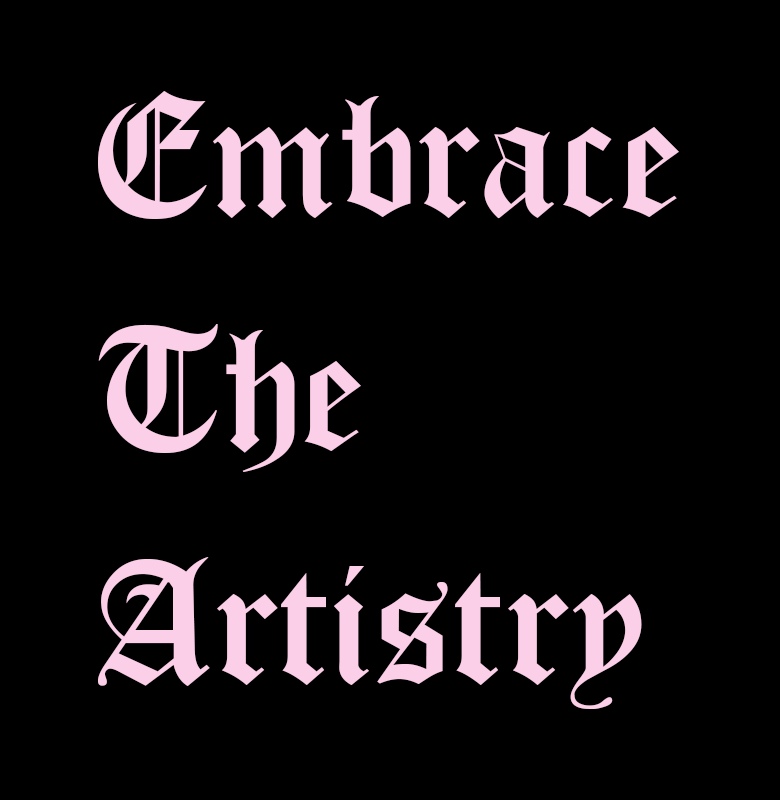
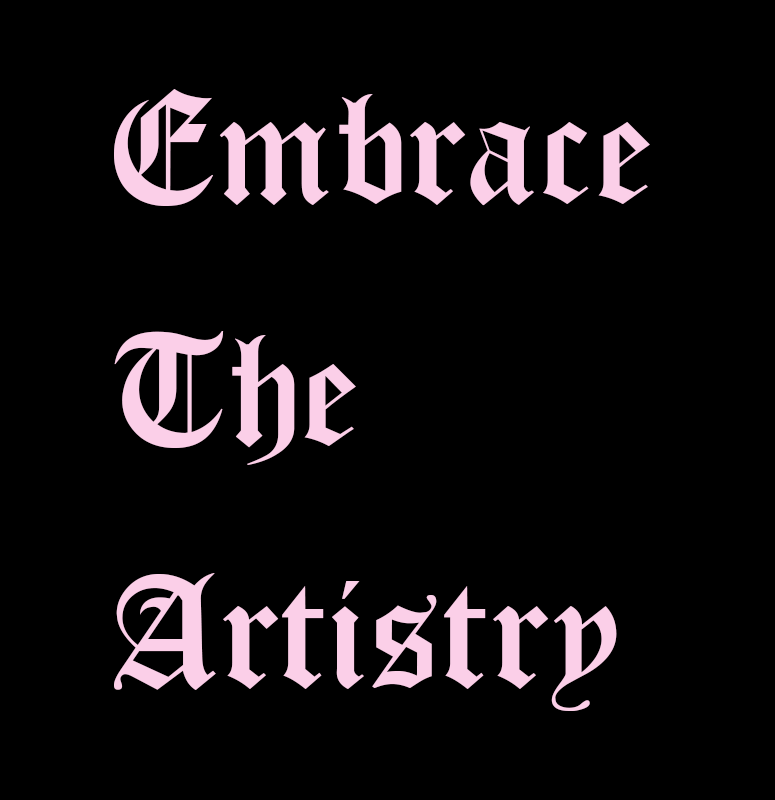
updated hero

diff --git a/src/Components/BookingModal/index.tsx b/src/Components/BookingModal/index.tsx
@@ -78,9 +78,9 @@ const BookingModal = () => {
               right: 0,
               bottom: 0,
               display: "flex",
+              backgroundColor: "rgba(0, 0, 0, 0.7)",
               justifyContent: "center",
               alignItems: "center",
-              background: "rgba(0, 0, 0, 0.8)",
               zIndex: 9999,
             }}
           >
@@ -89,17 +89,13 @@ const BookingModal = () => {
               animate={{ scale: 1 }}
               exit={{ scale: 0 }}
               style={{
-                paddingLeft: "1.5rem",
-                paddingRight: "1.5rem",
-                paddingTop: "0.5rem",
-                paddingBottom: "0.5rem",
-                borderRadius: "0.5rem",
                 maxWidth: "100%",
                 maxHeight: "90%",
                 overflow: "auto",
               }}
+              className="mx-6 my-2 md:mx-20 lg:mx-32 xl:mx-56 xl:my-32 rounded-xl bg-black shadow-xl shadow-black"
             >
-              <div className="relative rounded-lg shadow dark:bg-zinc-900 px-2">
+              <div className="relative rounded-lg bg-black px-2">
                 <div className="flex items-center justify-between p-4 border-b rounded-t border-zinc-700">
                   <span></span>
                   {!isMobile ? (
@@ -127,7 +123,7 @@ const BookingModal = () => {
                   <button
                     type="button"
                     onClick={closeModal}
-                    className="text-gray-400 bg-transparent hover:bg-gray-200 hover:text-gray-900 rounded-lg text-sm p-1.5 inline-flex items-center dark:hover:bg-gray-600 dark:hover:text-white"
+                    className="text-zinc-400 bg-transparent hover:bg-zinc-200 hover:text-zinc-900 rounded-lg text-sm p-1.5 inline-flex items-center dark:hover:bg-zinc-600 dark:hover:text-white"
                   >
                     <svg
                       className="w-5 h-5"
@@ -155,7 +151,7 @@ const BookingModal = () => {
                       >
                         Are You a Candidate?
                       </h2>
-                      <p className="font-sans w-full text-zinc-500 italic text-sm lg:max-w-4xl text-right">
+                      <p className="font-sans w-full text-zinc-500 italic text-sm lg:max-w-3xl text-right">
                         Please be advised that we have a 24-hour cancellation
                         policy. If you need to cancel or reschedule your
                         appointment, please do so at least 24 hours in advance.
@@ -165,7 +161,7 @@ const BookingModal = () => {
                     </div>
                   ) : (
                     <>
-                      <p className="w-full text-zinc-500 italic text-sm lg:max-w-4xl text-center mb-3">
+                      <p className="w-full text-zinc-500 italic text-sm lg:max-w-3xl text-center mb-3">
                         Please be advised that we have a 24-hour cancellation
                         policy. If you need to cancel or reschedule your
                         appointment, please do so at least 24 hours in advance.
@@ -177,7 +173,7 @@ const BookingModal = () => {
                       </h2>
                     </>
                   )}
-
+                  <hr className="w-full mt-5 mb-5 border-zinc-700" />
                   <p className="font-sans mb-4">
                     Permanent makeup, also known as micro-pigmentation, is a
                     cosmetic tattooing technique that involves the implantation
@@ -236,6 +232,7 @@ const BookingModal = () => {
                       Permanent Makeup Preparation
                     </h2>
                   )}
+                  <hr className="w-full mt-5 mb-4 border-zinc-700" />
                   <p className="font-sans mb-4">
                     All permanent makeup appointments must be approved by the
                     artist before scheduling to ensure you are a good candidate.
@@ -272,7 +269,9 @@ const BookingModal = () => {
                     </li>
                   </ul>
 
-                  <p className="font-sans mb-4 font-extrabold">For Lip Blush Only:</p>
+                  <p className="font-sans mb-4 font-extrabold">
+                    For Lip Blush Only:
+                  </p>
 
                   <p className="font-sans mb-4">
                     If you have the simplex virus herpes, the lip blush
@@ -291,7 +290,7 @@ const BookingModal = () => {
                 <div className="flex justify-center items-center py-6 space-x-2 rounded-b border-t border-zinc-700">
                   <button
                     onClick={closeModal}
-                    className="font-sans tracking-tight font-extrabold flex items-center justify-center bg-black hover:bg-white hover:text-black focus:outline-none focus:ring-2 focus:ring-offset-2 focus:ring-offset-black focus:ring-white rounded-lg text-white text-xl px-5 py-2.5 dark:bg-black dark:hover:bg-white dark:hover:text-black dark:focus:ring-2 dark:focus:ring-offset-2 dark:focus:ring-offset-black dark:focus:ring-white"
+                    className="font-sans tracking-tight font-extrabold flex items-center justify-center bg-zinc-900 hover:bg-white hover:text-black focus:outline-none focus:ring-2 focus:ring-offset-2 focus:ring-offset-black focus:ring-white rounded-lg text-white text-xl px-5 py-2.5 dark:hover:bg-white dark:hover:text-black dark:focus:ring-2 dark:focus:ring-offset-2 dark:focus:ring-offset-black dark:focus:ring-white"
                     type="button"
                   >
                     Proceed to Services
@@ -311,16 +310,6 @@ const BookingModal = () => {
                     </svg>
                   </button>
                 </div>
-
-                {/* <div className="flex items-center p-6 space-x-2 border-t border-gray-200 rounded-b dark:border-gray-600">
-                  <button
-                    onClick={closeModal}
-                    type="button"
-                    className="text-white bg-blue-700 hover:bg-blue-800 focus:ring-4 focus:outline-none focus:ring-blue-300 font-medium rounded-lg text-sm px-5 py-2.5 text-center dark:bg-blue-600 dark:hover:bg-blue-700 dark:focus:ring-blue-800"
-                  >
-                    Book Now
-                  </button>
-                </div> */}
               </div>
             </motion.div>
           </motion.div>

diff --git a/src/Components/Hero/index.tsx b/src/Components/Hero/index.tsx
@@ -35,7 +35,7 @@ const HeroBanner = () => {
 
   return (
     <>
-      <header style={{marginTop: "90px"}} ref={ref}>
+      <header style={{ marginTop: "90px" }} ref={ref}>
         <div
           className="relative overflow-hidden bg-black w-screen mb-10"
           style={{ height: "90vh" }}
@@ -67,15 +67,38 @@ const HeroBanner = () => {
           <div className="absolute inset-0 flex flex-col justify-center items-center">
             {!isMobile ? (
               <>
-                <h2
-                  className="font-london text-5xl sm:text-6xl md:text-7xl xl:text-8xl text-pink-200 text-center mx-32 sm:mx-10 md:-mt-10"
+                <div
                   style={{
-                    textShadow: "2px 2px 3px rgba(0, 0, 0, 0.9)",
+                    position: "relative",
+                    backgroundColor: "#000",
+                    boxShadow: "0px 0px 15px rgba(0, 0, 0, 0.6)",
+                    display: "flex",
+                    justifyContent: "center",
+                    alignItems: "center",
+                    textAlign: "center",
+                    padding: "0",
                   }}
+                  className="sm:w-[530px] sm:h-[120px] md:w-[630px] md:h-[140px] xl:w-[820px] xl:h-[160px] sm:left-0 md:left-0 lg:left-44 xl:left-56"
                 >
-                  Embrace the Artistry
-                </h2>
-                <p
+                  <h2
+                    className="font-london text-5xl sm:text-6xl md:text-7xl xl:text-8xl text-pink-200 text-center mx-32 sm:mx-10"
+                    style={{
+                      textShadow: "2px 2px 3px rgba(0, 0, 0, 0.9)",
+                      position: "absolute",
+                      width: "100%",
+                      height: "100%",
+                      display: "flex",
+                      justifyContent: "center",
+                      alignItems: "center",
+                      margin: "-10px 0 0 0",
+                      textAlign: "center",
+                    }}
+                  >
+                    Embrace the Artistry
+                  </h2>
+                </div>
+
+                {/* <p
                   className="max-w-5xl font-sans font-normal text-white text-lg sm:text-lg md:text-2xl xl:text-2xl mt-14 text-center mx-10 md:mx-16"
                   style={{
                     textShadow: "2px 2px 3px rgba(0, 0, 0, 0.95)",
@@ -88,51 +111,9 @@ const HeroBanner = () => {
                   From impeccably voluminous lashes to meticulously crafted
                   brows, I am here to enhance your natural beauty and give you
                   the confidence you deserve.
-                </p>
+                </p> */}
               </>
             ) : (
-              // <div
-              //   style={{
-              //     position: "relative",
-              //     top: "-5%",
-              //     margin: "auto",
-              //     width: "200px",
-              //     height: "200px",
-              //     backgroundColor: "#000",
-              //     boxShadow: "0px 0px 15px rgba(0, 0, 0, 0.6)",
-              //     display: "flex",
-              //     justifyContent: "center",
-              //     alignItems: "center",
-              //     textAlign: "center",
-              //     padding: "0",
-              //   }}
-              // >
-              //   <h2
-              //     className="font-london text-5xl sm:text-6xl tracking-wide text-pink-200"
-              //     style={{
-              //       textShadow: "2px 2px 3px rgba(0, 0, 0, 0.9)",
-              //       position: "absolute",
-              //       width: "100%",
-              //       height: "100%",
-              //       // display: "flex",
-              //       // justifyContent: "center",
-              //       // alignItems: "center",
-              //       margin: "0",
-              //       textAlign: "left",
-              //       paddingLeft: "22px",
-              //       top: "56%",
-              //       transform: "translateY(-50%)",
-              //       // lineHeight: "1.2",
-              //     }}
-              //   >
-              //     Embrace
-              //     <br />
-              //     the
-              //     <br />
-              //     Artistry
-              //   </h2>
-              // </div>
-
               <div
                 style={{
                   position: "absolute",
@@ -159,9 +140,30 @@ const HeroBanner = () => {
       </h2>
       {!isMobile ? (
         <>
-          <h3 className="pt-1 pb-12 px-10 text-center mx-auto mb-6 text-xl font-light tracking-tight leading-none md:text-2xl lg:text-3xl xl:text-4xl text-pink-200 italic">
+          <h3 className="pt-1 px-10 text-center mx-auto mb-14 text-xl font-light tracking-tight leading-none md:text-2xl lg:text-3xl xl:text-4xl text-pink-200 italic">
             "Enhance Your Look with Expert Touches"
           </h3>
+
+          <div className="flex flex-row justify-between items-center mb-10">
+            <p
+              className="font-sans font-normal text-white text-lg sm:text-lg md:text-xl xl:text-2xl mb-24 text-center mx-10 w-96"
+              style={{
+                textShadow: "2px 2px 3px rgba(0, 0, 0, 0.95)",
+              }}
+            >
+              As a permanent makeup artist and eyelash specialist, I am
+              passionate about helping you look and feel your best.
+            </p>
+            <p
+              className="font-sans font-normal text-white text-lg sm:text-lg md:text-xl xl:text-2xl mb-24 text-center mx-10 w-96"
+              style={{
+                textShadow: "2px 2px 3px rgba(0, 0, 0, 0.95)",
+              }}
+            >
+              From voluminous lashes to meticulously crafted brows, I help give
+              you the confidence you deserve.
+            </p>
+          </div>
         </>
       ) : (
         <>

diff --git a/src/Components/FAQItem/index.tsx b/src/Components/FAQItem/index.tsx
@@ -1,3 +1,5 @@
+import { useRef } from "react";
+
 interface FAQItemProps {
   question: string;
   answer: string;
@@ -11,6 +13,11 @@ interface Paragraph {
 }
 
 const FAQItem = ({ question, answer, open, onToggle }: FAQItemProps) => {
+  const ref = useRef<HTMLDivElement>(null);
+
+  const handleClick = () => {
+    onToggle();
+  };
 
   const renderParagraphs = (content: string) => {
     const paragraphs: Paragraph[] = content
@@ -30,7 +37,8 @@ const FAQItem = ({ question, answer, open, onToggle }: FAQItemProps) => {
 
   return (
     <div
-      onClick={onToggle}
+      ref={ref}
+      onClick={handleClick}
       className="group [&_summary::-webkit-details-marker]:hidden"
     >
       <div

diff --git a/src/Components/Navbar/index.tsx b/src/Components/Navbar/index.tsx
@@ -55,7 +55,7 @@ const LayoutNav = () => {
             transition={{ duration: 0.3 }}
             // style={{ backgroundColor: "rgba(0, 0, 0, 0.3)" }}
           >
-            <Link to="/">
+            <Link to="/" onClick={handleClickLink}>
               <img src={lashedBanner} alt="Lashed.Ink" className="w-44" />
             </Link>
           </motion.button>

diff --git a/src/index.css b/src/index.css
@@ -120,12 +120,6 @@ fieldset {
     border: 0;
 }
 
-/* Reset lists */
-ul[class],
-ol[class] {
-    list-style: none;
-}
-
 /* Accessibility hide for visually impaired */
 .hide {
     position: absolute !important;
